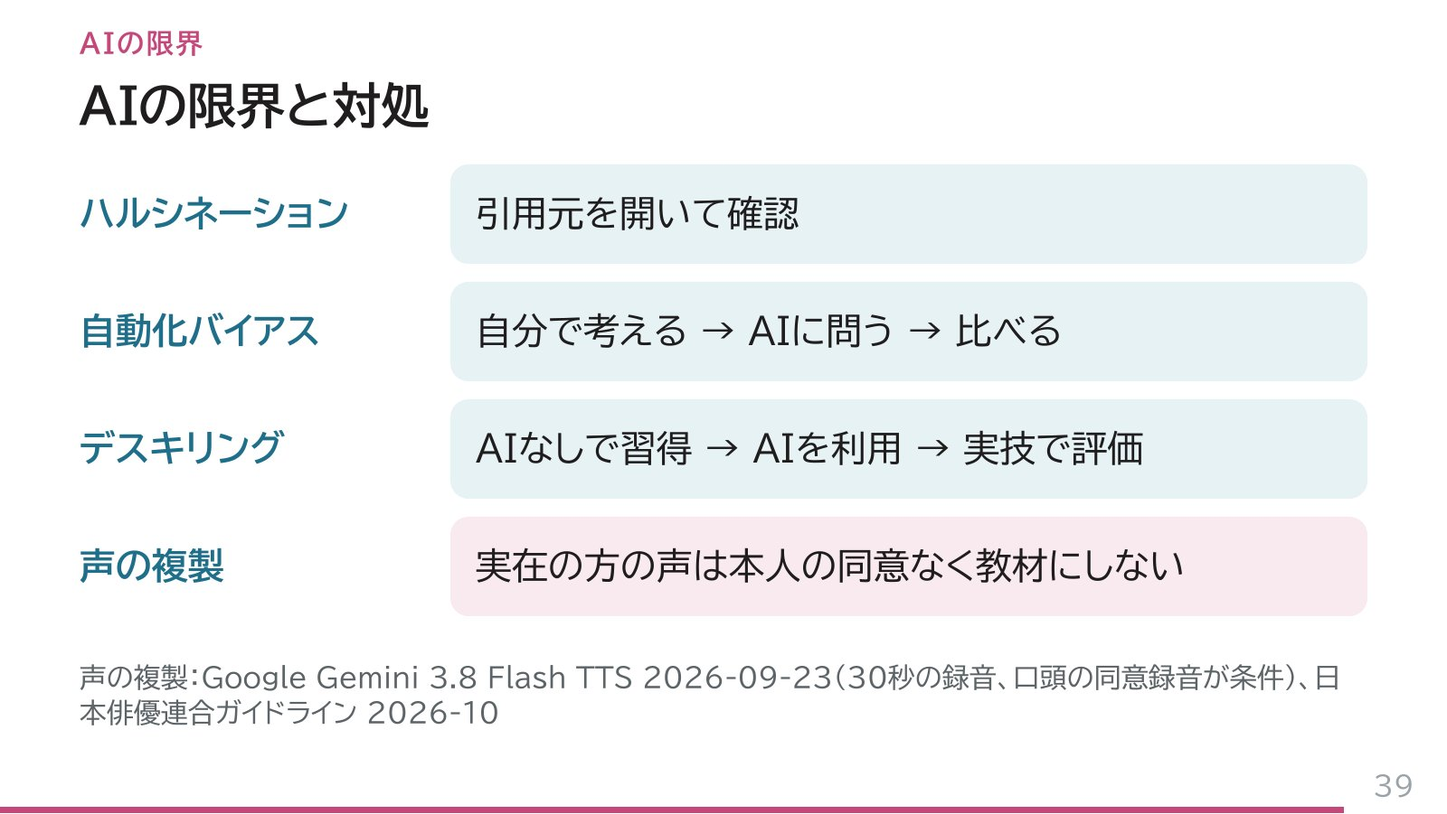
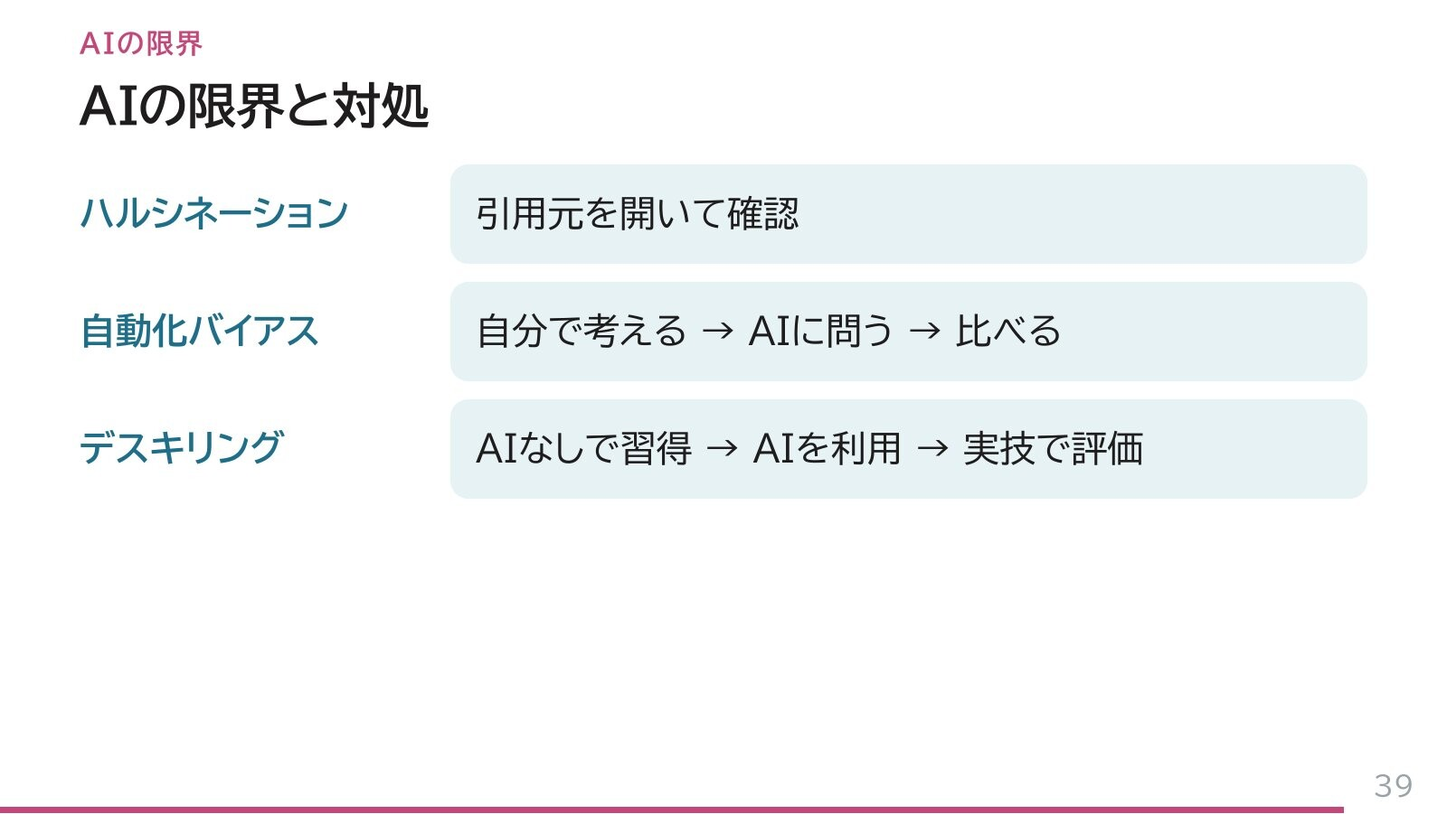
講演スライド39から声の複製の項目を削除

Changed region(s): [[0.0625, 0.808, 0.9375, 0.9012], [0.3125, 0.6526, 0.8125, 0.7148], [0.0312, 0.6526, 0.1562, 0.7148]]

diff --git a/slides/index.html b/slides/index.html
@@ -25,7 +25,7 @@ footer{margin-top:14px;font-size:13px;color:var(--sub);text-align:center;line-he
 <div class="links" id="ln"></div>
 <footer>当日の一部のスライドは省いています。スライド右下の番号は当日のものです。<br><a href="../">ロールプレイに戻る</a></footer>
 <script>
-const D=[{"n": 1, "alt": "もう一人の私（AI）に どうタスクシフトするか？ 日常診療を支える生成AI活用 香田将英 東北大学大学院医学系研究科 公衆衛生学分野 第59回日本小児内分泌学会学術集会 インタラクティブプレミアムセミナー 2026年11月7日"}, {"n": 2, "alt": "導入 利益相反の開示 演者 香田将英 講演料 サンド株式会社 2"}, {"n": 3, "alt": "導入 生成AIで作った3D作品 3", "v": [0.169, 0.191, 0.662, 0.662]}, {"n": 4, "alt": "導入 本日の到達目標 1 作業の仕分けと一般化した質問の入力 2 告知面談の要点を根拠とともに説明 3 迎合と個人情報の限界を踏まえたロールプレイの活用 4"}, {"n": 5, "alt": "AIの現在 生成AIの利用経験 2024年度調査 26.7% 2025年度調査 58.8% 生成AIを一度でも使ったことがある人の割合（日本） 総務省 令和8年版 情報通信白書 図表Ⅰ-1-1-1 5"}, {"n": 6, "alt": "AIの現在 年齢階層別の利用経験 91.7% 15〜19歳 78.2% 20〜29歳 56.3% 30〜39歳 40〜49歳 50〜59歳 60〜69歳 思春期の患者 49.0% 親の世代 親の世代 44.2% 33.5% 受診の前後にAIへ相談する可能性 総務省 令和8年版 情報通信白書 図表Ⅰ-1-1-7（一度でも使ったことがある人の割合） 6"}, {"n": 7, "alt": "AIの現在 本人の代わりに動き続けるAI 例：Claude Duet（Anthropic 2026-10-21）、同僚エージェント（Google 2026-10-09）、Muse （Meta 2026-10-23） 7", "v": [0.055, 0.191, 0.89, 0.722]}, {"n": 8, "alt": "AIの現在 AIに見えている範囲 Google Cloud Blog「Welcome to Gemini at Work 2026」2026-10-09 … it sees only what you share with it. 渡す範囲は持ち主が決定 職場のメールと患者情報は個人のAIに接続しない 8"}, {"n": 9, "alt": "AIの現在 電子カルテの中のAI Epic（Healthcare IT Today 2025-08-21）、NYU Langone（OpenEvidence 公式 2026-1029） 9", "v": [0.055, 0.191, 0.89, 0.722]}, {"n": 10, "alt": "", "v": [0.055, 0.191, 0.89, 0.722]}, {"n": 11, "alt": "AIの現在 日本の公開データ研究マップ 公的統計を使った研 究の地図 テーマ、データ源、年から 検索 毎日自動更新 https://shoei05.github.io/JapanStatsMAPs/ 11", "v": [0.055, 0.202, 0.65, 0.65], "l": [["JapanStatsMAPs", "https://shoei05.github.io/JapanStatsMAPs/"]]}, {"n": 12, "alt": "タスクシフト 日常診療の作業の仕分け 基準：間違いが起きたときに誰が責任を負うか／相手が人かどうか 12", "v": [0.055, 0.191, 0.89, 0.722]}, {"n": 13, "alt": "タスクシフト 診療情報提供書の下書きを作る場所 厚生労働省 医療情報システムの安全管理に関するガイドライン 第7.0版（2026年6月）企画管理編 8.2.3 13", "v": [0.055, 0.191, 0.89, 0.722]}, {"n": 14, "alt": "タスクシフト 3省2ガイドラインと入力の注意 検査データ、画像、病歴を一般向けの生成AIに入力 しない 国内法の適用外のサーバー上の文字起こしで診療録 にしない 対処：架空の例と一般化した質問、施設が契約した共通の環境 厚生労働省 医療情報システムの安全管理に関するガイドライン 第7.0版（2026年6月）／経済産業省・総務 省 提供事業者向けガイドライン。図：香田、ケアネット講演資料 14"}, {"n": 16, "alt": "論文検索 調べものに使うAIの4種類 臨床特化AI 汎用AI 論文探索AI 資料限定AI UpToDate Expert AI OpenEvidence ChatGPT、Gemini Claude Consensus Elicit Gemini Notebook Web全体 論文データベース 登録した手引き・ガイ ドラインのPDF 編集された臨床記 事、論文、ガイドライ ン 16"}, {"n": 18, "alt": "論文検索 個別の記述と一般化した質問 個別の記述（入力しない） 6歳女児、園の健診で低身長を指摘、母と受診、来週結果説明の予定 一般化した質問（入力する） 学童期の低身長の女児において、染色体検査はどのような場合に勧められるか。国内の 診療ガイドラインと手引きに基づいて答えてください 個別の情報を除外 ／ 対象と疑問を限定 ／ 根拠の種類を指定 ＝ 疑問の定式化 回答は引用元を開いて確認 ／ 患者への適用は医師 18"}, {"n": 19, "alt": "ロールプレイ AIを相手にした対人技能の練習 患者役のAI 面接と悪い知らせの伝え方の反復練習。実際の患 者への負担なし Yamamoto A, et al. JMIR Med Educ. 2024;10:e58753. 19"}, {"n": 20, "alt": "ロールプレイ 本日のロールプレイ ターナー症候群の告知、7つの場面 6歳女児の母親への結果説明 20"}, {"n": 21, "alt": "ロールプレイ 画面の流れ 21", "v": [0.169, 0.191, 0.662, 0.662]}, {"n": 22, "alt": "ロールプレイ 分岐型ロールプレイの使い方 shoei05.github.io/rp-6b9e3924/ 6名の卓を3名ずつ2チーム、片方は壁側へ 3名で1台、音量は3名に聞こえる程度 7場面で返答を3択、全体で約10分 22", "l": [["ロールプレイ", "https://shoei05.github.io/rp-6b9e3924/"]]}, {"n": 23, "alt": "ロールプレイ 体験（10分） shoei05.github.io/rp-6b9e3924/ 3名で1台 5分で場面4が目安 23", "l": [["ロールプレイ", "https://shoei05.github.io/rp-6b9e3924/"]]}, {"n": 24, "alt": "振り返り テーブル内の振り返り（5分） 問1 意見が分かれた返答 問2 次に試したい伝え方 元の6名に戻り、2チームの進み方を見比べる。ワークシートの裏面に記入 24"}, {"n": 25, "alt": "振り返り 全体共有（1〜2グループ） 7つの場面を通した感想 AIを相手にした練習の感想 1グループ約3分 25"}, {"n": 26, "alt": "解説 解説の根拠 ターナー症候群 診療の手引き 性分化疾患（DSD）の診療ガイドライン 2025年版 移行期医療における疾患別ガイド（日本小児科学会） 26"}, {"n": 27, "alt": "解説 場面1 導入 「やっぱり、ホルモンが足りないんでしょうか」 ◎ 前回は、ホルモンと、ターナーという体質を調べる染色体 の検査をしましたね。結果をお伝えする前に、このあいだ、 どんなことが気になっていましたか。 △ 「どのくらい詳しく聞きたいか」を先に尋ねる：何か問題があったのかと受け取 られる可能性 ESHG. Core competences for genetic counsellors. 2010、教材としての判断 27"}, {"n": 28, "alt": "解説 場面2 結果 「結果はどうでしたか」 ◎ 今回調べたホルモンは問題ありませんでした。染色体は、 女の子は通常X染色体が2本ですが、調べた細胞すべてで1 本でした。ターナー症候群と分かりました。 △ 「異常」の語は内容を伝えず負の印象だけを残す。「45,X」は説明なしでは伝わ らない 性分化疾患（DSD）の診療ガイドライン 2025年版 CQ3 p.14 28"}, {"n": 29, "alt": "解説 場面3 病気なのか 「病気なんですか。治るんですか」 ◎ 急なお話でしたね。生まれ持った染色体の特徴です。染 色体そのものを変える治療はありませんが、成長や健康を 支える治療はあります。心臓や腎臓も、これから確かめてい きます。 △ 「治癒は困難」と結論から伝える：何を支えられるかを示していない 移行期医療ガイド ターナー症候群 p.1、DSD診療ガイドライン 2025年版 CQ3 p.14 29"}, {"n": 30, "alt": "解説 場面4 私のせいか 「私のせいですか」 ◎ ご自身のせいではないかと心配されているんですね。妊 娠中の過ごし方が原因ではありません。お母さんにも、お父 さんにも責任はありません。 △ 答えずに治療の話へ移る：次の場面で同じ問いが重なる NHS. Turner syndrome: Causes、MedlinePlus Genetics. Turner syndrome 30"}, {"n": 31, "alt": "解説 場面5 背は伸びるか 「背は伸びるんでしょうか」 ◎ 成長を助ける治療があります。効果には個人差がありま すが、今から始める意味はあります。検査を確認して、負担 も含めて一緒に相談しましょう。 △ 期間と費用を断定し一度に話す：情報が多すぎる、不正確な断定 ターナー症候群診療の手引き p.6、CQ2 p.9、移行期医療ガイド p.2 31"}, {"n": 32, "alt": "解説 場面6 赤ちゃんは 「将来、赤ちゃんは産めますか」 ◎ めっけちゃんの場合、自然に妊娠することは難しいと考 えられます。急に将来の話まで出て、驚かれますよね。思春 期の体の変化のほうは、ホルモンの治療で支えられます。 △ 答えずに次回に回す：問いに応えていない 手引き CQ7 p.20、CQ8 p.22、DSD診療ガイドライン 2025年版 CQ11 p.49、CQ28 p.107 32"}, {"n": 33, "alt": "解説 場面7 夫と本人 「夫と本人にどう伝えたら」 ◎ ご希望があれば、次回ご主人にも一緒に聞いていただけ ます。難しければお母さんと続けましょう。めっけちゃんに は、年齢に合わせて少しずつ、一緒に伝えていきましょう。 △ 本人への説明を先延ばし／夫への説明を母親に任せる DSD診療ガイドライン 2025年版 CQ3 p.14、CQ11 p.49、CQ20 p.82-83 33"}, {"n": 34, "alt": "解説 訂正が必要とした3種類の返答 ✕ 合併症の評価前の保証：「ほかは健康ですから大丈夫」 ✕ 治療効果の保証：「ちゃんと伸びる」 ✕ 妊娠の断定と確約：「産めません」「凍結しておけば産める」 共通する点：確かめていないことの言い切り 移行期医療ガイド、ターナー症候群診療の手引き CQ2・CQ7・CQ8、性分化疾患の診療ガイドライン2025 CQ28 34"}, {"n": 35, "alt": "解説 根拠にした資料 直接の根拠：手引き、移行期医療ガイド 場面3・5・6 説明原則の準用：DSD-GL 場面1・2・3・6・7 公的機関の解説：NHS、MedlinePlus 場面4・5 書誌とURLの一覧 github.com/shoei05/rp-6b9e3924 の SOURCES.md 35", "l": [["書誌とURLの一覧（SOURCES.md）", "https://github.com/shoei05/rp-6b9e3924/blob/main/SOURCES.md"]]}, {"n": 36, "alt": "AIの限界 肯定と迎合 肯定 迎合（sycophancy） 相手の体験や感情を否定しない 相手の満足を優先して合わせる 治療的共感 AIの迎合 目的 自立と回復 満足度と対話の継続 沈黙 内省の時間 即座に空白を埋める 現実との検討 穏やかに直面化 無批判に同意 36"}, {"n": 37, "alt": "AIの限界 AIが肯定する頻度 +49% AI 11モデルが人より多く肯定 Cheng M, et al. Science. 2026;391:eaec8352. 2,405人の実験：1回の対話で確信が上昇、修復 の意欲が低下、それでも信頼された 37", "v": [0.055, 0.191, 0.89, 0.722]}, {"n": 38, "alt": "AIの限界 質問の仕方 避ける 「この方針でよいですよね」 勧める 中立に質問し、反対の立場の意見も 求める 38"}, {"n": 39, "alt": "AIの限界 AIの限界と対処 ハルシネーション 引用元を開いて確認 自動化バイアス 自分で考える → AIに問う → 比べる デスキリング AIなしで習得 → AIを利用 → 実技で評価 声の複製 実在の方の声は本人の同意なく教材にしない 声の複製：Google Gemini 3.8 Flash TTS 2026-09-23（30秒の録音、口頭の同意録音が条件）、日 本俳優連合ガイドライン 2026-10 39"}, {"n": 40, "alt": "セミナー後 セミナー後の使い方 同じURLから何度でも。別の返答で振り返りを比較 GitHubのURLを生成AIに貼り、学ぶ点を質問 研修医・レジデントのトレーニング 40", "l": [["ロールプレイ", "https://shoei05.github.io/rp-6b9e3924/"], ["GitHub", "https://github.com/shoei05/rp-6b9e3924"]]}, {"n": 41, "alt": "まとめ AIに任せる仕事と医療者が担う仕事 AIへ 医療者が担う 文書の下書き 検索と要約 診断と方針の判断、子どもと家族への説明と対話、下 書きの確認と責任、後進の指導 個別の情報を含む文書は、電子カルテの機能か施設が契約した環境で 自分の言葉に直す 引用元を開いて確認 中立に質問 41"}, {"n": 42, "alt": "まとめ The Doctor 子どもと家族のそば で過ごす時間 Luke Fildes, The Doctor, 1891, Tate. Garibaldi BT, Russell SW. N Engl J Med. 2025;393:2142-50. 42"}];
+const D=[{"n": 1, "alt": "もう一人の私（AI）に どうタスクシフトするか？ 日常診療を支える生成AI活用 香田将英 東北大学大学院医学系研究科 公衆衛生学分野 第59回日本小児内分泌学会学術集会 インタラクティブプレミアムセミナー 2026年11月7日"}, {"n": 2, "alt": "導入 利益相反の開示 演者 香田将英 講演料 サンド株式会社 2"}, {"n": 3, "alt": "導入 生成AIで作った3D作品 3", "v": [0.169, 0.191, 0.662, 0.662]}, {"n": 4, "alt": "導入 本日の到達目標 1 作業の仕分けと一般化した質問の入力 2 告知面談の要点を根拠とともに説明 3 迎合と個人情報の限界を踏まえたロールプレイの活用 4"}, {"n": 5, "alt": "AIの現在 生成AIの利用経験 2024年度調査 26.7% 2025年度調査 58.8% 生成AIを一度でも使ったことがある人の割合（日本） 総務省 令和8年版 情報通信白書 図表Ⅰ-1-1-1 5"}, {"n": 6, "alt": "AIの現在 年齢階層別の利用経験 91.7% 15〜19歳 78.2% 20〜29歳 56.3% 30〜39歳 40〜49歳 50〜59歳 60〜69歳 思春期の患者 49.0% 親の世代 親の世代 44.2% 33.5% 受診の前後にAIへ相談する可能性 総務省 令和8年版 情報通信白書 図表Ⅰ-1-1-7（一度でも使ったことがある人の割合） 6"}, {"n": 7, "alt": "AIの現在 本人の代わりに動き続けるAI 例：Claude Duet（Anthropic 2026-10-21）、同僚エージェント（Google 2026-10-09）、Muse （Meta 2026-10-23） 7", "v": [0.055, 0.191, 0.89, 0.722]}, {"n": 8, "alt": "AIの現在 AIに見えている範囲 Google Cloud Blog「Welcome to Gemini at Work 2026」2026-10-09 … it sees only what you share with it. 渡す範囲は持ち主が決定 職場のメールと患者情報は個人のAIに接続しない 8"}, {"n": 9, "alt": "AIの現在 電子カルテの中のAI Epic（Healthcare IT Today 2025-08-21）、NYU Langone（OpenEvidence 公式 2026-1029） 9", "v": [0.055, 0.191, 0.89, 0.722]}, {"n": 10, "alt": "", "v": [0.055, 0.191, 0.89, 0.722]}, {"n": 11, "alt": "AIの現在 日本の公開データ研究マップ 公的統計を使った研 究の地図 テーマ、データ源、年から 検索 毎日自動更新 https://shoei05.github.io/JapanStatsMAPs/ 11", "v": [0.055, 0.202, 0.65, 0.65], "l": [["JapanStatsMAPs", "https://shoei05.github.io/JapanStatsMAPs/"]]}, {"n": 12, "alt": "タスクシフト 日常診療の作業の仕分け 基準：間違いが起きたときに誰が責任を負うか／相手が人かどうか 12", "v": [0.055, 0.191, 0.89, 0.722]}, {"n": 13, "alt": "タスクシフト 診療情報提供書の下書きを作る場所 厚生労働省 医療情報システムの安全管理に関するガイドライン 第7.0版（2026年6月）企画管理編 8.2.3 13", "v": [0.055, 0.191, 0.89, 0.722]}, {"n": 14, "alt": "タスクシフト 3省2ガイドラインと入力の注意 検査データ、画像、病歴を一般向けの生成AIに入力 しない 国内法の適用外のサーバー上の文字起こしで診療録 にしない 対処：架空の例と一般化した質問、施設が契約した共通の環境 厚生労働省 医療情報システムの安全管理に関するガイドライン 第7.0版（2026年6月）／経済産業省・総務 省 提供事業者向けガイドライン。図：香田、ケアネット講演資料 14"}, {"n": 16, "alt": "論文検索 調べものに使うAIの4種類 臨床特化AI 汎用AI 論文探索AI 資料限定AI UpToDate Expert AI OpenEvidence ChatGPT、Gemini Claude Consensus Elicit Gemini Notebook Web全体 論文データベース 登録した手引き・ガイ ドラインのPDF 編集された臨床記 事、論文、ガイドライ ン 16"}, {"n": 18, "alt": "論文検索 個別の記述と一般化した質問 個別の記述（入力しない） 6歳女児、園の健診で低身長を指摘、母と受診、来週結果説明の予定 一般化した質問（入力する） 学童期の低身長の女児において、染色体検査はどのような場合に勧められるか。国内の 診療ガイドラインと手引きに基づいて答えてください 個別の情報を除外 ／ 対象と疑問を限定 ／ 根拠の種類を指定 ＝ 疑問の定式化 回答は引用元を開いて確認 ／ 患者への適用は医師 18"}, {"n": 19, "alt": "ロールプレイ AIを相手にした対人技能の練習 患者役のAI 面接と悪い知らせの伝え方の反復練習。実際の患 者への負担なし Yamamoto A, et al. JMIR Med Educ. 2024;10:e58753. 19"}, {"n": 20, "alt": "ロールプレイ 本日のロールプレイ ターナー症候群の告知、7つの場面 6歳女児の母親への結果説明 20"}, {"n": 21, "alt": "ロールプレイ 画面の流れ 21", "v": [0.169, 0.191, 0.662, 0.662]}, {"n": 22, "alt": "ロールプレイ 分岐型ロールプレイの使い方 shoei05.github.io/rp-6b9e3924/ 6名の卓を3名ずつ2チーム、片方は壁側へ 3名で1台、音量は3名に聞こえる程度 7場面で返答を3択、全体で約10分 22", "l": [["ロールプレイ", "https://shoei05.github.io/rp-6b9e3924/"]]}, {"n": 23, "alt": "ロールプレイ 体験（10分） shoei05.github.io/rp-6b9e3924/ 3名で1台 5分で場面4が目安 23", "l": [["ロールプレイ", "https://shoei05.github.io/rp-6b9e3924/"]]}, {"n": 24, "alt": "振り返り テーブル内の振り返り（5分） 問1 意見が分かれた返答 問2 次に試したい伝え方 元の6名に戻り、2チームの進み方を見比べる。ワークシートの裏面に記入 24"}, {"n": 25, "alt": "振り返り 全体共有（1〜2グループ） 7つの場面を通した感想 AIを相手にした練習の感想 1グループ約3分 25"}, {"n": 26, "alt": "解説 解説の根拠 ターナー症候群 診療の手引き 性分化疾患（DSD）の診療ガイドライン 2025年版 移行期医療における疾患別ガイド（日本小児科学会） 26"}, {"n": 27, "alt": "解説 場面1 導入 「やっぱり、ホルモンが足りないんでしょうか」 ◎ 前回は、ホルモンと、ターナーという体質を調べる染色体 の検査をしましたね。結果をお伝えする前に、このあいだ、 どんなことが気になっていましたか。 △ 「どのくらい詳しく聞きたいか」を先に尋ねる：何か問題があったのかと受け取 られる可能性 ESHG. Core competences for genetic counsellors. 2010、教材としての判断 27"}, {"n": 28, "alt": "解説 場面2 結果 「結果はどうでしたか」 ◎ 今回調べたホルモンは問題ありませんでした。染色体は、 女の子は通常X染色体が2本ですが、調べた細胞すべてで1 本でした。ターナー症候群と分かりました。 △ 「異常」の語は内容を伝えず負の印象だけを残す。「45,X」は説明なしでは伝わ らない 性分化疾患（DSD）の診療ガイドライン 2025年版 CQ3 p.14 28"}, {"n": 29, "alt": "解説 場面3 病気なのか 「病気なんですか。治るんですか」 ◎ 急なお話でしたね。生まれ持った染色体の特徴です。染 色体そのものを変える治療はありませんが、成長や健康を 支える治療はあります。心臓や腎臓も、これから確かめてい きます。 △ 「治癒は困難」と結論から伝える：何を支えられるかを示していない 移行期医療ガイド ターナー症候群 p.1、DSD診療ガイドライン 2025年版 CQ3 p.14 29"}, {"n": 30, "alt": "解説 場面4 私のせいか 「私のせいですか」 ◎ ご自身のせいではないかと心配されているんですね。妊 娠中の過ごし方が原因ではありません。お母さんにも、お父 さんにも責任はありません。 △ 答えずに治療の話へ移る：次の場面で同じ問いが重なる NHS. Turner syndrome: Causes、MedlinePlus Genetics. Turner syndrome 30"}, {"n": 31, "alt": "解説 場面5 背は伸びるか 「背は伸びるんでしょうか」 ◎ 成長を助ける治療があります。効果には個人差がありま すが、今から始める意味はあります。検査を確認して、負担 も含めて一緒に相談しましょう。 △ 期間と費用を断定し一度に話す：情報が多すぎる、不正確な断定 ターナー症候群診療の手引き p.6、CQ2 p.9、移行期医療ガイド p.2 31"}, {"n": 32, "alt": "解説 場面6 赤ちゃんは 「将来、赤ちゃんは産めますか」 ◎ めっけちゃんの場合、自然に妊娠することは難しいと考 えられます。急に将来の話まで出て、驚かれますよね。思春 期の体の変化のほうは、ホルモンの治療で支えられます。 △ 答えずに次回に回す：問いに応えていない 手引き CQ7 p.20、CQ8 p.22、DSD診療ガイドライン 2025年版 CQ11 p.49、CQ28 p.107 32"}, {"n": 33, "alt": "解説 場面7 夫と本人 「夫と本人にどう伝えたら」 ◎ ご希望があれば、次回ご主人にも一緒に聞いていただけ ます。難しければお母さんと続けましょう。めっけちゃんに は、年齢に合わせて少しずつ、一緒に伝えていきましょう。 △ 本人への説明を先延ばし／夫への説明を母親に任せる DSD診療ガイドライン 2025年版 CQ3 p.14、CQ11 p.49、CQ20 p.82-83 33"}, {"n": 34, "alt": "解説 訂正が必要とした3種類の返答 ✕ 合併症の評価前の保証：「ほかは健康ですから大丈夫」 ✕ 治療効果の保証：「ちゃんと伸びる」 ✕ 妊娠の断定と確約：「産めません」「凍結しておけば産める」 共通する点：確かめていないことの言い切り 移行期医療ガイド、ターナー症候群診療の手引き CQ2・CQ7・CQ8、性分化疾患の診療ガイドライン2025 CQ28 34"}, {"n": 35, "alt": "解説 根拠にした資料 直接の根拠：手引き、移行期医療ガイド 場面3・5・6 説明原則の準用：DSD-GL 場面1・2・3・6・7 公的機関の解説：NHS、MedlinePlus 場面4・5 書誌とURLの一覧 github.com/shoei05/rp-6b9e3924 の SOURCES.md 35", "l": [["書誌とURLの一覧（SOURCES.md）", "https://github.com/shoei05/rp-6b9e3924/blob/main/SOURCES.md"]]}, {"n": 36, "alt": "AIの限界 肯定と迎合 肯定 迎合（sycophancy） 相手の体験や感情を否定しない 相手の満足を優先して合わせる 治療的共感 AIの迎合 目的 自立と回復 満足度と対話の継続 沈黙 内省の時間 即座に空白を埋める 現実との検討 穏やかに直面化 無批判に同意 36"}, {"n": 37, "alt": "AIの限界 AIが肯定する頻度 +49% AI 11モデルが人より多く肯定 Cheng M, et al. Science. 2026;391:eaec8352. 2,405人の実験：1回の対話で確信が上昇、修復 の意欲が低下、それでも信頼された 37", "v": [0.055, 0.191, 0.89, 0.722]}, {"n": 38, "alt": "AIの限界 質問の仕方 避ける 「この方針でよいですよね」 勧める 中立に質問し、反対の立場の意見も 求める 38"}, {"n": 39, "alt": "AIの限界 AIの限界と対処 ハルシネーション 引用元を開いて確認 自動化バイアス 自分で考える → AIに問う → 比べる デスキリング AIなしで習得 → AIを利用 → 実技で評価 39"}, {"n": 40, "alt": "セミナー後 セミナー後の使い方 同じURLから何度でも。別の返答で振り返りを比較 GitHubのURLを生成AIに貼り、学ぶ点を質問 研修医・レジデントのトレーニング 40", "l": [["ロールプレイ", "https://shoei05.github.io/rp-6b9e3924/"], ["GitHub", "https://github.com/shoei05/rp-6b9e3924"]]}, {"n": 41, "alt": "まとめ AIに任せる仕事と医療者が担う仕事 AIへ 医療者が担う 文書の下書き 検索と要約 診断と方針の判断、子どもと家族への説明と対話、下 書きの確認と責任、後進の指導 個別の情報を含む文書は、電子カルテの機能か施設が契約した環境で 自分の言葉に直す 引用元を開いて確認 中立に質問 41"}, {"n": 42, "alt": "まとめ The Doctor 子どもと家族のそば で過ごす時間 Luke Fildes, The Doctor, 1891, Tate. Garibaldi BT, Russell SW. N Engl J Med. 2025;393:2142-50. 42"}];
 const $=i=>document.getElementById(i),st=$('stage'),im=$('im');
 const nm=n=>String(n).padStart(2,'0');let i=0;
 function go(k,push=true){i=Math.max(0,Math.min(D.length-1,k));const d=D[i];
